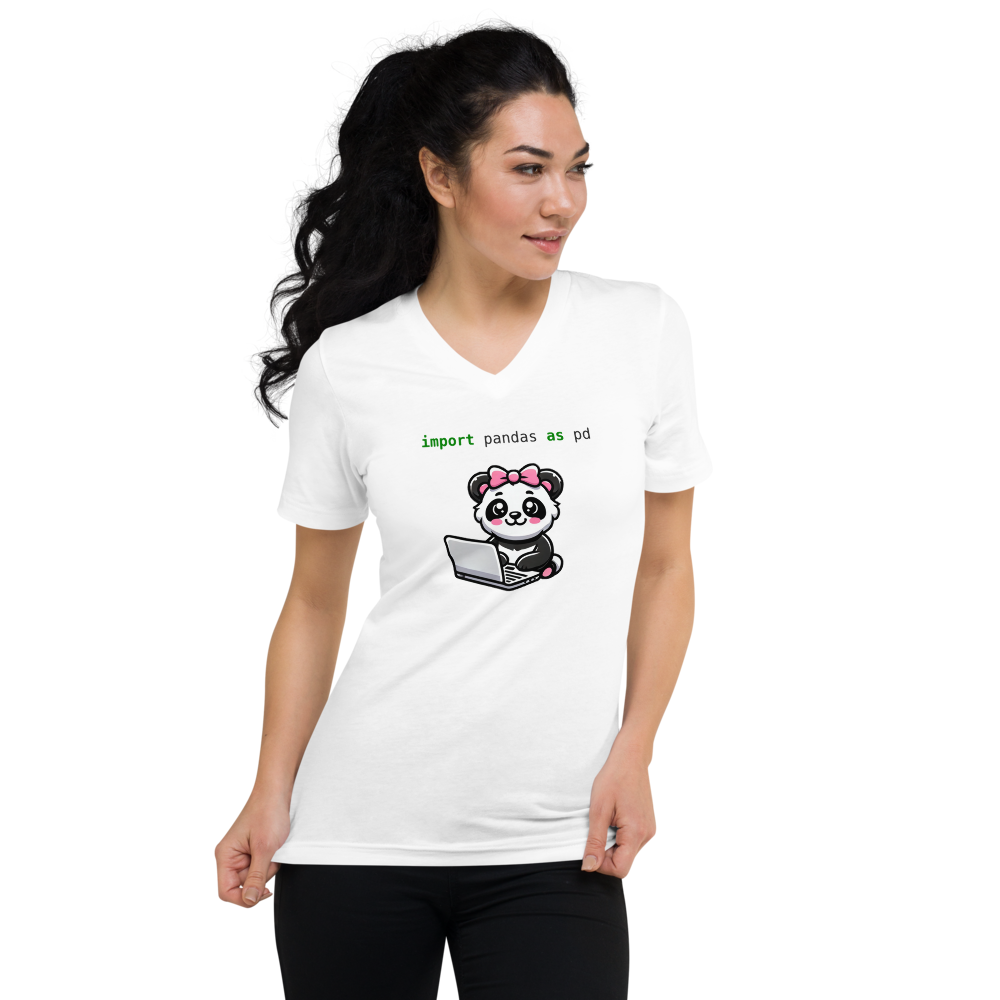
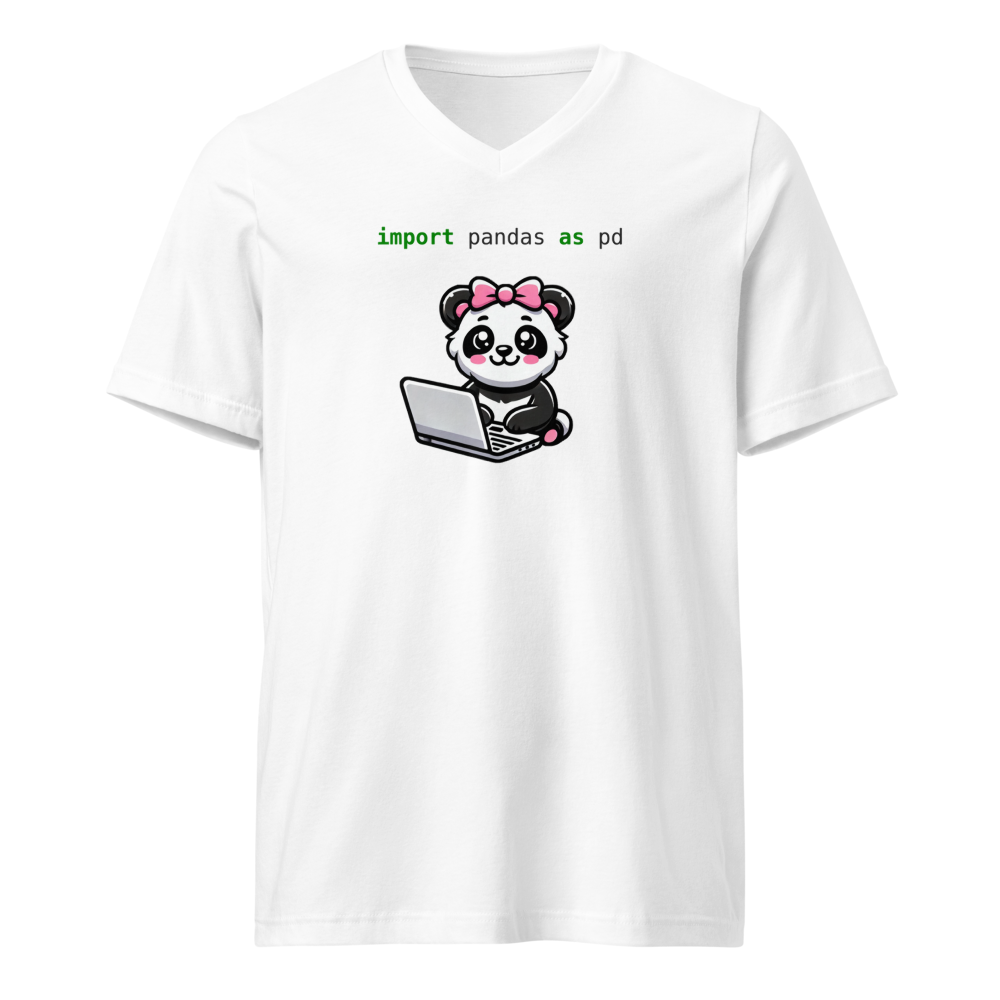
pandas tshirt

Changed region(s): [[0.124, 0.0, 0.868, 1.0], [0.868, 0.372, 0.899, 0.403], [0.527, 0.713, 0.558, 0.744]]

diff --git a/services/resource-center.html b/services/resource-center.html
@@ -55,62 +55,75 @@
       </div>
     </section><!-- End Breadcrumbs -->
 
-    <!-- ======= Under Construction Section ======= -->
-    <section class="service-details">
-      <div class="container text-center" data-aos="fade-up">
-        <div class="row justify-content-center">
-          <div class="col-lg-8">
-            <div class="under-construction-box p-5" style="background: rgba(203, 98, 178, 0.1); border-radius: 15px; margin-bottom: 50px;">
-              <i class="bi bi-journal-richtext" style="font-size: 80px; color: #cb62b2; margin-bottom: 20px;"></i>
-              <h2 style="color: #1c073e; margin-bottom: 20px;">Knowledge Hub Under Development!</h2>
-              <p style="font-size: 18px; margin-bottom: 30px;">We're curating a comprehensive collection of AI and data science resources that will become your go-to knowledge center. Our team is assembling guides, templates, and tools to support your learning journey.</p>
-              <div class="d-flex justify-content-center">
-                <div class="progress" style="height: 10px; width: 70%;">
-                  <div class="progress-bar" role="progressbar" style="width: 60%; background-color: #cb62b2;" aria-valuenow="60" aria-valuemin="0" aria-valuemax="100"></div>
-                </div>
-              </div>
-              <p style="margin-top: 15px; font-style: italic;">60% Complete</p>
-              <a href="../index.html#contact" class="btn btn-primary mt-3" style="background: #cb62b2; border: none; padding: 10px 25px;">Get Notified When Ready</a>
-            </div>
-          </div>
-        </div>
-      </div>
-    </section><!-- End Under Construction Section -->
-
-    <!-- ======= Contact Section ======= -->
-    <section id="contact" class="contact section-bg">
+    <!-- ======= Store Section ======= -->
+    <section class="store-section">
       <div class="container" data-aos="fade-up">
         <div class="section-title">
-          <h2>Explore Our Resource Center</h2>
+          <h2>STEM Merchandise</h2>
+          <p>Show your passion for data science and programming with our exclusive collection</p>
         </div>
 
         <div class="row">
-          <div class="col-lg-6 d-flex" data-aos="fade-up" data-aos-delay="200">
-            <div class="info-box">
-              <i class='bx bx-book'></i>
-              <h3>Knowledge at Your Fingertips</h3>
-              <p>Discover curated resources to support your learning journey, from recommended books to free educational materials.</p>
-            </div>
-          </div>
-          
-          <div class="col-lg-3 d-flex" data-aos="fade-up" data-aos-delay="100">
-            <div class="info-box">
-              <i class="bx bx-envelope"></i>
-              <h3>Resource Inquiries</h3>
-              <p><a href="mailto:viviana@missfactorial.com" style="color: inherit; text-decoration: none;">viviana@missfactorial.com</a></p>
+          <!-- Product Card -->
+          <div class="col-lg-4 col-md-6 mb-4">
+            <div class="card h-100" style="border-radius: 15px; overflow: hidden; border: none; box-shadow: 0 0 15px rgba(0,0,0,0.1);">
+              <!-- Product Image Carousel -->
+              <div id="productCarousel" class="carousel slide" data-bs-ride="carousel">
+                <div class="carousel-inner">
+                  <div class="carousel-item active" style="background-color: rgba(102, 33, 176, 0.1);">
+                    <img src="store/tshirt_mockups/pandas/pandas_python_tshirt_girly00001.png" class="d-block w-100" alt="Pandas Python T-shirt front view">
+                  </div>
+                  <div class="carousel-item" style="background-color: rgba(102, 33, 176, 0.1);">
+                    <img src="store/tshirt_mockups/pandas/pandas_python_tshirt_girly00002.png" class="d-block w-100" alt="Pandas Python T-shirt back view">
+                  </div>
+                  <div class="carousel-item" style="background-color: rgba(102, 33, 176, 0.1);">
+                    <img src="store/tshirt_mockups/pandas/pandas_python_tshirt_girly00003.png" class="d-block w-100" alt="Pandas Python T-shirt side view">
+                  </div>
+                  <div class="carousel-item" style="background-color: rgba(102, 33, 176, 0.1);">
+                    <img src="store/tshirt_mockups/pandas/pandas_python_tshirt_girly00004.png" class="d-block w-100" alt="Pandas Python T-shirt side view">
+                  </div>
+                </div>
+                <button class="carousel-control-prev" type="button" data-bs-target="#productCarousel" data-bs-slide="prev">
+                  <span class="carousel-control-prev-icon" aria-hidden="true"></span>
+                  <span class="visually-hidden">Previous</span>
+                </button>
+                <button class="carousel-control-next" type="button" data-bs-target="#productCarousel" data-bs-slide="next">
+                  <span class="carousel-control-next-icon" aria-hidden="true"></span>
+                  <span class="visually-hidden">Next</span>
+                </button>
+              </div>
+              
+              <div class="card-body text-center">
+                <h5 class="card-title" style="color: #1c073e; font-weight: 600;">Pandas Python T-shirt</h5>
+                <p class="card-text">Show your love for data science with this stylish Pandas Python t-shirt. Perfect for coding sessions and tech meetups!</p>
+                <p class="price" style="color: #cb62b2; font-size: 1.25rem; font-weight: 600;">$25.00</p>
+                <div class="size-selector mb-3">
+                  <select class="form-select" id="size-select" style="width: 80%; margin: 0 auto;">
+                    <option value="">Select Size</option>
+                    <option value="S">Small</option>
+                    <option value="M">Medium</option>
+                    <option value="L">Large</option>
+                    <option value="XL">X-Large</option>
+                  </select>
+                </div>
+                <button class="btn btn-primary buy-now" style="background: #cb62b2; border: none; padding: 10px 25px;">Add to Cart</button>
+              </div>
             </div>
           </div>
 
-          <div class="col-lg-3 d-flex" data-aos="fade-up">
-            <div class="info-box">
-              <i class="bx bx-store"></i>
-              <h3>STEM Shop</h3>
-              <p>Show your passion with our exclusive merchandise</p>
+          <!-- Coming Soon Card -->
+          <div class="col-lg-4 col-md-6 mb-4">
+            <div class="card h-100" style="border-radius: 15px; overflow: hidden; border: none; box-shadow: 0 0 15px rgba(0,0,0,0.1);">
+              <div class="card-body d-flex flex-column justify-content-center align-items-center" style="min-height: 400px; background: rgba(203, 98, 178, 0.1);">
+                <i class="bi bi-stars" style="font-size: 48px; color: #cb62b2;"></i>
+                <h5 class="card-title mt-3" style="color: #1c073e;">More Products Coming Soon!</h5>
+                <p class="card-text text-center">Stay tuned for additional STEM-themed merchandise.</p>
+              </div>
             </div>
           </div>
         </div>
       </div>
-    </section><!-- End Contact Section -->
+    </section><!-- End Store Section -->
 
   </main><!-- End #main -->
 
